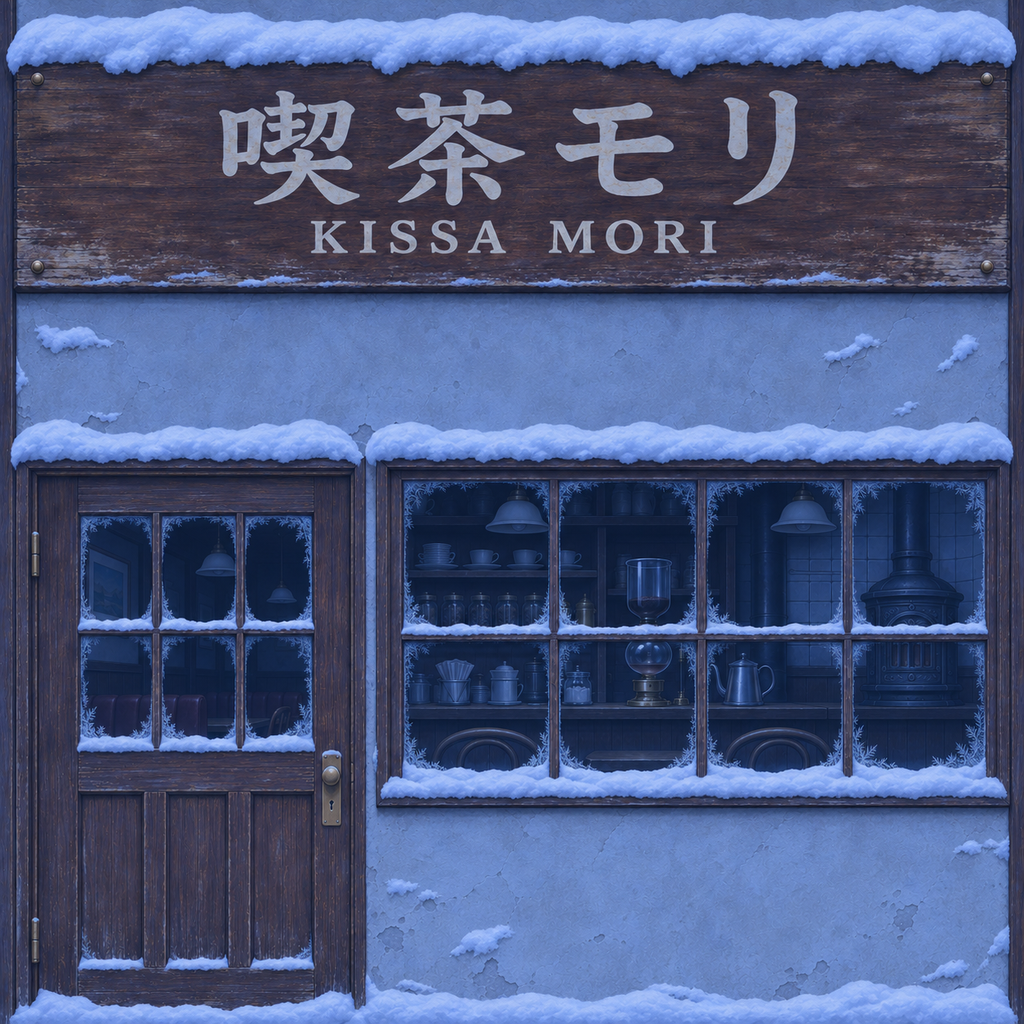
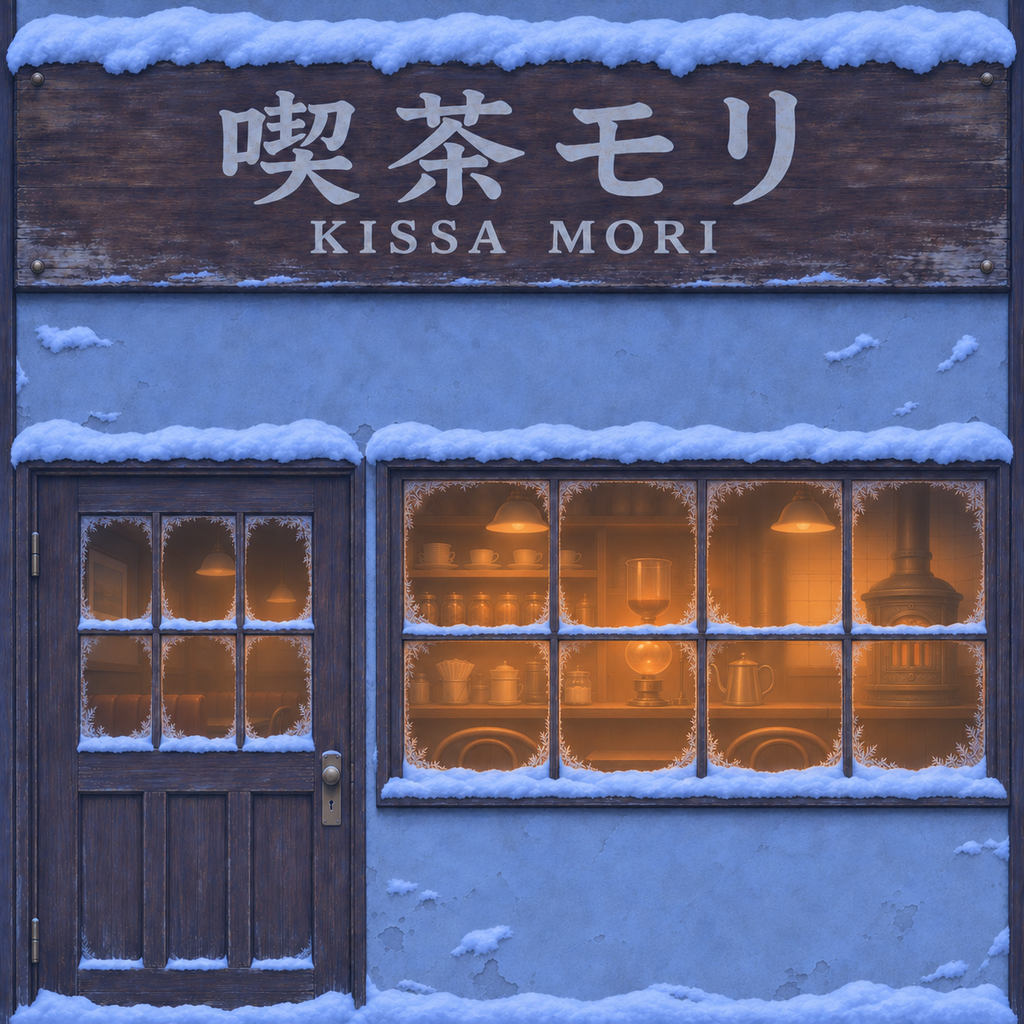
Art: light Kissa Mori's window in the snow front (HPA-1332)

Changed region(s): [[0.375, 0.4688, 0.9688, 0.7812], [0.0625, 0.5, 0.3125, 0.7188]]

diff --git a/content/art/fronts/README.md b/content/art/fronts/README.md
@@ -26,7 +26,7 @@ Metres from the left edge of the face, and up from the street or floor.
 
 - `apartment_block`: door 5.3–6.7, 0–2.2. Windows 1.8–3.2 and 8.8–10.2, both 3.65–4.75 (`Home/Door`, `Window0`, `Window1`). The left window and the door lamp are lit in the snow version.
 - `university_hall`: entrance 8.4–11.6, 0–2.8. The UNIVERSITY plate is 7–13, 3.0–3.8, so the `University/Sign` label is no longer needed.
-- `kissa_mori`: door 0.1–1.5, 0–2.2; window 1.55–3.95, 1.0–2.2. In the night scene that puts the door centre at x 38.8 and the window centre at x 40.75; `KissaDoor` (38) and `KissaWindow` (40.5) need to move there. The sign carries the name, so `KissaSign` is no longer needed either. The day version has a hiring notice in the window; the snow version is closed and dark.
+- `kissa_mori`: door 0.1–1.5, 0–2.2; window 1.55–3.95, 1.0–2.2. In the night scene that puts the door centre at x 38.8 and the window centre at x 40.75; `KissaDoor` (38) and `KissaWindow` (40.5) need to move there. The sign carries the name, so `KissaSign` is no longer needed either. The day version has a hiring notice in the window; in the snow version the window glows warm from inside, since the night route ends here.
 - `shrine_hall`: doors 1.7–3.3, 0–2.0 (`Shrine/HallDoor`).
 - `apartment_room_wall`: window frame 2.7–4.85, 1.15–2.45, a little larger than the grey-box `Room/Window` (1.6 × 1 m).
 - Library and gym walls: the lower 2.4 m is plain wainscot behind the shelves, treadmill and rack.
